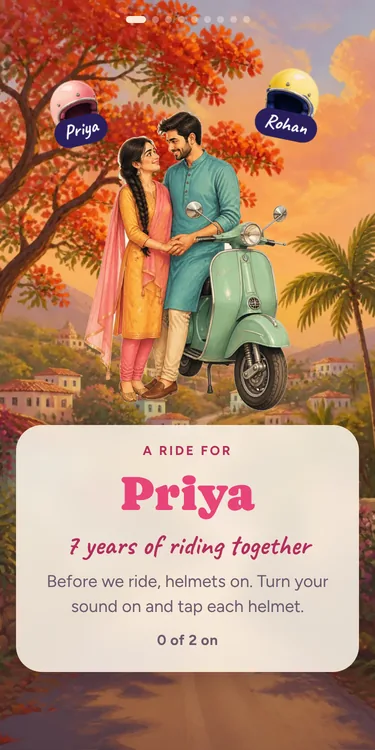
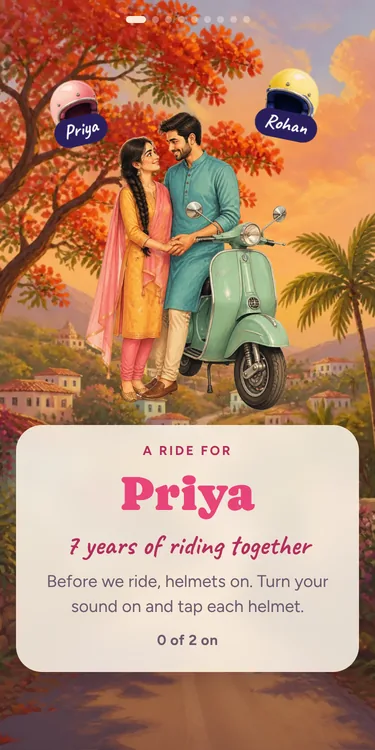
Memory Lane is live: homepage card, About page, Pinterest pin, structured data
Claude-Session: https://claude.ai/code/session_01421VuoqhFcSd1MVsboy9pA

diff --git a/index.html b/index.html
@@ -4,7 +4,7 @@
 <meta charset="utf-8">
 <meta name="viewport" content="width=device-width, initial-scale=1">
 <title>Little Gasp – Interactive Surprise Websites for Birthdays, Love Letters & Festivals</title>
-<meta name="description" content="Little Gasp (littlegasp.com) makes interactive surprise websites for birthdays, love letters, apologies, Karwa Chauth, Diwali and Navratri. Add your photos and words, watch the full preview free, then send one private link.">
+<meta name="description" content="Little Gasp (littlegasp.com) makes interactive surprise websites for birthdays, anniversaries, love letters, apologies, Karwa Chauth, Diwali and Navratri. Add your photos and words, watch the full preview free, then send one private link.">
 <link rel="canonical" href="https://littlegasp.com/">
 <meta name="p:domain_verify" content="62123977d9f37c57539cebff4570201b"/>
 <link rel="icon" href="/favicon.ico" sizes="48x48">
@@ -34,7 +34,7 @@
   "url":"https://littlegasp.com/",
   "logo":{"@type":"ImageObject","url":"https://littlegasp.com/icon-512.png","width":512,"height":512},
   "image":"https://littlegasp.com/og-image.png",
-  "description":"Little Gasp (littlegasp.com) is an online gift studio from Mumbai that makes personalised, interactive surprise websites for birthdays, love letters, apologies, Karwa Chauth, Diwali and Navratri. Buyers add their own photos, notes and a letter, see a live preview, then get a private link to share. Online only, sold through Instagram @littlegasp.co. Founded in Mumbai in 2026.",
+  "description":"Little Gasp (littlegasp.com) is an online gift studio from Mumbai that makes personalised, interactive surprise websites for birthdays, anniversaries, love letters, apologies, Karwa Chauth, Diwali and Navratri. Buyers add their own photos, notes and a letter, see a live preview, then get a private link to share. Online only, sold through Instagram @littlegasp.co. Founded in Mumbai in 2026.",
   "foundingDate":"2026","foundingLocation":{"@type":"Place","name":"Mumbai, India"},"areaServed":"IN",
   "email":"littlegasp.orders@gmail.com",
   "sameAs":["https://instagram.com/littlegasp.co/","https://www.instagram.com/littlegasp.co/","https://www.pinterest.com/littlegasp_co/"],
@@ -43,7 +43,7 @@
  {"@type":"Product","name":"Personalised surprise website","brand":{"@type":"Brand","name":"Little Gasp"},
   "description":"An interactive website with your photos, notes and letter, made for one person. Live preview before you pay.",
   "image":"https://littlegasp.com/og-image.png",
-  "offers":{"@type":"AggregateOffer","lowPrice":"99","highPrice":"149","offerCount":"7","priceCurrency":"INR","availability":"https://schema.org/InStock","url":"https://littlegasp.com/#designs",
+  "offers":{"@type":"AggregateOffer","lowPrice":"99","highPrice":"149","offerCount":"8","priceCurrency":"INR","availability":"https://schema.org/InStock","url":"https://littlegasp.com/#designs",
    "shippingDetails":{"@type":"OfferShippingDetails",
      "shippingRate":{"@type":"MonetaryAmount","value":"0","currency":"INR"},
      "shippingDestination":{"@type":"DefinedRegion","addressCountry":"IN"},
@@ -292,7 +292,10 @@ const DESIGNS = [
     demo: "/apology/", art: "heart", image: "/img/cards/apology.webp", screen: "/img/cards/apology-screen.webp" },
   { key: "love-letter", name: "Sealed with Love", status: "live", price: 149, regularPrice: 0,
     text: "A love letter they open: a dove delivers it, they crack the wax seal, unfold your notes and watch a quill write every word. Pressed flowers become your photos, stars spell your initials, and they can write back with a thumbprint seal.",
-    demo: "/love-letter/", art: "heart", image: "/img/cards/love-letter.webp", screen: "/img/cards/love-letter-screen.webp" }
+    demo: "/love-letter/", art: "heart", image: "/img/cards/love-letter.webp", screen: "/img/cards/love-letter-screen.webp" },
+  { key: "anniversary", name: "Memory Lane", status: "live", price: 149, regularPrice: 0,
+    text: "An anniversary ride for two: helmets on, kick-start the scooter, fill the tank with reasons, then drive up a winding road where every milestone is one of your photos. Promises at the toll, your letter at a chai stop, and a love lock on the bridge.",
+    demo: "/anniversary/", art: "heart", image: "/img/cards/anniversary.webp", screen: "/img/cards/anniversary-screen.webp" }
 ];
 /* ============================================= */
 

diff --git a/about.html b/about.html
@@ -4,7 +4,7 @@
 <meta charset="utf-8">
 <meta name="viewport" content="width=device-width, initial-scale=1">
 <title>About Little Gasp – Interactive Surprise Websites, Made in Mumbai</title>
-<meta name="description" content="Little Gasp (littlegasp.com) is an online gift studio from Mumbai that makes personalised, interactive surprise websites for birthdays, love letters, apologies, Karwa Chauth, Diwali and Navratri.">
+<meta name="description" content="Little Gasp (littlegasp.com) is an online gift studio from Mumbai that makes personalised, interactive surprise websites for birthdays, anniversaries, love letters, apologies, Karwa Chauth, Diwali and Navratri.">
 <link rel="canonical" href="https://littlegasp.com/about.html">
 <meta property="og:type" content="website">
 <meta property="og:site_name" content="Little Gasp">
@@ -27,7 +27,7 @@
   "founder":{"@type":"Person","name":"Aniket Nandkumar Gurav"},"foundingDate":"2026","foundingLocation":{"@type":"Place","name":"Mumbai, India"}},
  {"@type":"FAQPage","mainEntity":[
   {"@type":"Question","name":"What is Little Gasp?","acceptedAnswer":{"@type":"Answer","text":"Little Gasp (littlegasp.com) is an online gift studio from Mumbai, India. It makes personalised, interactive surprise websites: you add your photos, little notes and a letter, preview the whole thing free, then send one private link that the other person taps and plays through on their phone."}},
-  {"@type":"Question","name":"What occasions does Little Gasp make surprises for?","acceptedAnswer":{"@type":"Answer","text":"Birthdays, love letters, apologies, Karwa Chauth, Diwali and Bhai Dooj, and Navratri, with new designs added for each festival."}},
+  {"@type":"Question","name":"What occasions does Little Gasp make surprises for?","acceptedAnswer":{"@type":"Answer","text":"Birthdays, anniversaries, love letters, apologies, Karwa Chauth, Diwali and Bhai Dooj, and Navratri, with new designs added for each festival."}},
   {"@type":"Question","name":"How much does a Little Gasp surprise cost?","acceptedAnswer":{"@type":"Answer","text":"Birthday Cake is ₹99 and the other designs are ₹149. You can watch the full preview with your own photos before paying, and pay by UPI or card through Razorpay."}},
   {"@type":"Question","name":"Does the person need an app?","acceptedAnswer":{"@type":"Answer","text":"No. A Little Gasp surprise is a private web link that opens in any browser on a phone or laptop, and stays live for at least 12 months."}}
  ]}
@@ -48,6 +48,7 @@
 <h2>What we make</h2>
 <ul>
   <li><a href="/love-letter/">Sealed with Love</a> – a love letter they open: a dove delivers it, they crack the wax seal, unfold your notes and watch a quill write every word.</li>
+  <li><a href="/anniversary/">Memory Lane</a> – an anniversary ride: helmets on, kick-start the scooter and drive up a road where every milestone is one of your photos, ending with a love lock on a bridge.</li>
   <li><a href="/birthday-cake/">Birthday Cake</a> – candles, a wish and confetti, then your photos and notes, ending with a birthday selfie with a crown.</li>
   <li><a href="/birthday-wish/">Make a Wish</a> – a teddy bear's birthday party: light the candles, pop balloons, unwrap gifts and cut the cake.</li>
   <li><a href="/apology/">Mend the Heart</a> – a proper sorry: they mend a broken heart with gold and tell you honestly how mad they still are.</li>

diff --git a/CLAUDE.md b/CLAUDE.md
@@ -13,14 +13,14 @@ Brand Instagram: @littlegasp.co. Owner: Aniket Nandkumar Gurav, Mumbai.
 - `diwali/index.html` – "Diwali Night" (₹149; art from Canva asset kit DAHXZ0ow0uw, pages 5–8; add-on art `img/mithai.webp` from asset kit 2, Canva DAHXcxMn5_E): open (diya) → rangoli (trace the dotted circle; the colour copy is revealed by a conic mask following the finger; "Draw it for me" fallback) → sky (tap to launch fireworks; each burst writes one reason in light; 3 generic bursts if no reasons) → lanterns (up to 5, tap to release, each leaves a photo polaroid) → sparkle (draw with a sparkler; "Save" shares/downloads a 1080×1350 PNG) → letter → ask → gift (only if `extra.gift`: scratch the gold foil on a mithai box to read the real gift) → end (continuous fireworks + "send a wish back": a lantern carries their text to the buyer's email via `action:"reply"`, kind `wish`). `extra.relation` partner | family | sibling (Bhai Dooj) changes all wording (`WORDS`); demo `?rel=family|sibling`. Music is our own synthesised santoor/tabla/drone tune (`SONG.src` empty); a buyer's song replaces it.
 - `apology/index.html` – "Mend the Heart" apology (₹149; art from the same kit, pages 1–4; add-on art `img/jar.webp`, `puppy-choc/bouquet/roll.webp` from asset kit 2, Canva DAHXcxMn5_E): open (sorry puppy) → heart (one painted heart cut by code into 4–6 clip-path shards along jagged rays; drag or tap each home, each shows a sorry from `reasons`; gold kintsugi seams then draw along the same rays) → window (wipe the fog canvas off each photo) → jar (only if `extra.promises`: tap the jar or shake the phone (DeviceMotion, iOS permission asked on the tap that opens the scene); each paper star unfolds into a promise) → letter → meter (forgive-o-meter dial "Still furious 🔥" → "All good 💗"; rain, gloom and puppy follow it live; answer sent as reply kind `meter`, only if they moved it) → ask ("Still mad 😤" makes the puppy try chocolate → flowers → belly rubs, then it stops and waits; "I need a minute" stays, never pressure) → menu (make-up menu from `extra.menu` or our `MENU`; tick treats + "Anything else?"; "Place my order" sends reply kind `order`, stamps the menu) → end (rain stops, happy puppy, their order listed). Song: `audio/thoda-muskura-do.mp3` ("Thoda Muskura Do" by RahulSapkal, Pixabay, owner's pick 10 Oct 2026; starts on the heart scene); our synthesised music-box tune only if it won't load. Diwali stays on its synthesised tune (owner's choice). Editor uses `reasonsTitle`/`reasonsExamples`/`letterHint` for apology wording.
 - `love-letter/index.html` – "Sealed with Love" love letter (₹149; Canva mockup + kit DAHXpI9uS9s in the Tiny Surprises Canva account, pages 8–11 = cut-outs, phone bg, couple, wide laptop bg): open (dove postman flies in; tap it) → seal (press & hold the wax heart ~1.5 s till it glows and cracks; music starts here; then the envelope really opens: `.eflap` (envelope image clipped to the top V) swings up, `.ecard` slides out of `.epocket` and lifts free; the painted wax stays split on flap and pocket; `.seal`/`.ring` sit at z-index 6 above the flap) → unfold (drag the folded letter down, each crease opens one reason) → letter (a drawn SVG quill writes the letter live; tap to finish) → flowers (pressed flowers `flower-N.webp`; tap one, it flies into a polaroid that develops into a photo) → box (only if `extra.memories`, "date: text": dated tabs in the keepsake box, pull one up to read it) → sky (join 12 stars into a heart in the arched window; initials of to/from appear; "Draw it for me" after 9 s) → ps (only if `extra.ps`: drag the candle near the card; invisible ink shows where the paper is warm) → ask (pull the ribbon end to untie the bundle; the last letter shows the question, the dove perched on it, a rose and a wax seal; "Convince me" brings 3 dove notes then becomes "Okay, yes!") → reply (write back, hold thumb on the wax for a fingerprint heart seal, tap lipstick for kisses; sent as reply kind `letter`; laptops get "click and hold" wording; after sending it moves to the finale by itself) → end (painted couple, falling petals). Song: `audio/love-story-piano.mp3` ("Romantic Background Music (Valentine's Day Love Story Piano)" by MaksymMalko, Pixabay, owner's pick 11 Oct 2026); our synthesised D-major waltz only if it won't load; buyer's song replaces it. Laptop bg `img/bg-wide.webp` (Canva page 11; window on the left half).
-- `anniversary/index.html` – "Memory Lane" anniversary (₹149; Canva storyboard DAHXtkkfL6s, asset kit DAHXtijKBLo (16 pages) + wide bg DAHXtvAjBVY, Tiny Surprises Canva account; built 11 Oct 2026, reworked on owner feedback the same evening; unlisted until the owner approves): open (helmets on: tap a helmet, it flies to the head and fades while `couple-helmets.webp` (Canva repaint of the same couple wearing helmets, media MAHXtz1xcy4, aligned to `couple.webp`) is revealed under a soft radial mask around that head only (`.hlp`/`.hly`); name tags follow `theme` her/him, set from the editor's Wife/Husband pick via `genderFromWho`) → kick (swipe the kick lever down twice; music starts here) → map (paper map unfolds, dotted route, years from `number`) → fuel (only if reasons: hold the nozzle; one gauge bar per reason) → lane (drag the scooter up `img/road.webp`, path = `ROAD` in 900×1600 image space; EVERY PHOTO IS A MILESTONE: caption "year: text", photo shows in the note as a polaroid; up to 20 photos (editor `maxPhotos:20`, `captionMax:80`); no photos → old `extra.milestones` or `DEFAULT_STOPS`; "Drive for me" after 8 s; the post-box scene was dropped) → toll (barrier is 3 layers `bar-post/bar-arm/bar-hub.webp`, only the arm rotates about the hub; one promise per lift from `extra.promises` or `DEFAULT_PROMISES`; after the last one `rideAway()` sends the riding couple up the painted road, shrinking toward the vanishing point, per-layout path in vw/vh) → chai (only if letter: couple sitting on the parked scooter at the tapri; "Cheers" → full-screen overlay, two `chai-glass.webp` (one glass, mirrored) swing in and clink with a splash; then the chalkboard card writes the letter; on phones the art hides once the board shows) → lock (only if question: Lock it / tap lock → lock drops onto the rail, key slides into the keyhole and turns (click), comes out; "Throw the key away" → key arcs into the river, splash + ripples; then "Ride into forever" button, never automatic) → end. Music: our synthesised ukulele-style tune (`SONG.src` empty); buyer's song replaces it. Backend v10 (`/home/claude/out/Code-v10.gs`): `anniversary` price + `PHOTO_LIMITS` (20 photos, 80-char captions).
+- `anniversary/index.html` – "Memory Lane" anniversary (₹149; Canva storyboard DAHXtkkfL6s, asset kit DAHXtijKBLo (16 pages) + wide bg DAHXtvAjBVY, Tiny Surprises Canva account; built 11 Oct 2026, reworked on owner feedback, art is the owner's transparent Canva export; LIVE on homepage/about/pins 11 Oct 2026 night): open (helmets on: tap a helmet, it flies to the head and fades while `couple-helmets.webp` (Canva repaint of the same couple wearing helmets, media MAHXtz1xcy4, aligned to `couple.webp`) is revealed under a soft radial mask around that head only (`.hlp`/`.hly`); name tags follow `theme` her/him, set from the editor's Wife/Husband pick via `genderFromWho`) → kick (swipe the kick lever down twice; music starts here) → map (paper map unfolds, dotted route, years from `number`) → fuel (only if reasons: hold the nozzle; one gauge bar per reason) → lane (drag the scooter up `img/road.webp`, path = `ROAD` in 900×1600 image space; EVERY PHOTO IS A MILESTONE: caption "year: text", photo shows in the note as a polaroid; up to 20 photos (editor `maxPhotos:20`, `captionMax:80`); no photos → old `extra.milestones` or `DEFAULT_STOPS`; "Drive for me" after 8 s; the post-box scene was dropped) → toll (barrier is 3 layers `bar-post/bar-arm/bar-hub.webp`, only the arm rotates about the hub; one promise per lift from `extra.promises` or `DEFAULT_PROMISES`; after the last one `rideAway()` sends the riding couple up the painted road, shrinking toward the vanishing point, per-layout path in vw/vh) → chai (only if letter: couple sitting on the parked scooter at the tapri; "Cheers" → full-screen overlay, two `chai-glass.webp` (one glass, mirrored) swing in and clink with a splash; then the chalkboard card writes the letter; on phones the art hides once the board shows) → lock (only if question: Lock it / tap lock → lock drops onto the rail, key slides into the keyhole and turns (click), comes out; "Throw the key away" → key arcs into the river, splash + ripples; then "Ride into forever" button, never automatic) → end. Music: our synthesised ukulele-style tune (`SONG.src` empty); buyer's song replaces it. Backend v10 (`/home/claude/out/Code-v10.gs`): `anniversary` price + `PHOTO_LIMITS` (20 photos, 80-char captions).
 - `style.css` – shared glass theme. `site.js` – shared header, phone menu, footer (edit nav/footer links only here).
 - `terms.html`, `refund.html`, `privacy.html`, `contact.html` – policies.
 - `about.html` – indexable About page (11 Oct 2026, for Google/AI answers about the brand): clear "Little Gasp (littlegasp.com) is…" opening line, every design listed, AboutPage + Organization + FAQPage JSON-LD. Homepage also carries Organization/WebSite/Product + FAQPage JSON-LD and the Pinterest `p:domain_verify` meta tag (website claim, 11 Oct 2026; never remove it); keep design names, prices and `offerCount` there in step with `DESIGNS`.
 - `pins.xml` – RSS feed Pinterest reads to auto-create one Pin per design (connected in Pinterest Bulk create Pins → Auto-publish, board "Surprise Gift Ideas", account littlegasp_co, 11 Oct 2026). Each item: SEO title, design page link, `img/pins/<key>.jpg` (1000×1500, made by /tmp mk-style render: blurred card bg, cream title panel, phone with `<key>-screen.webp`, "Try it free · littlegasp.com" bar; no prices). Every new live design gets a new item + image; never change an existing `guid`.
 - `robots.txt`, `sitemap.xml`, `og-image.png`, icons.
 
-Backend (NOT in this repo): Google Apps Script web app in littlegasp.orders@gmail.com, bound to its order sheet (v8 code: `Extra` column for design add-ons (v8 adds Karwa Chauth `vows`), `Replies` sheet + `action:"reply"` (kinds wish/order/meter, paid ids only, max 20 per link, emailed to the buyer), diwali + apology prices; v9 adds `love-letter` price, extras `memories`/`ps` (`scent` too, unused since the perfume scene was dropped 11 Oct 2026, owner's call) and reply kind `letter` — deployed by the owner 11 Oct 2026) — same `API_URL` in all 8 pages (7 templates + editor) (`API_URL`, ends in `/exec`) with a `PRICES` map in paise; Razorpay keys live in Apps Script Script Properties. Never put API keys or secrets in this repo – it is public.
+Backend (NOT in this repo): Google Apps Script web app in littlegasp.orders@gmail.com, bound to its order sheet (v8 code: `Extra` column for design add-ons (v8 adds Karwa Chauth `vows`), `Replies` sheet + `action:"reply"` (kinds wish/order/meter, paid ids only, max 20 per link, emailed to the buyer), diwali + apology prices; v9 adds `love-letter` price, extras `memories`/`ps` (`scent` too, unused since the perfume scene was dropped 11 Oct 2026, owner's call) and reply kind `letter` — deployed by the owner 11 Oct 2026; v10 adds `anniversary` price + `PHOTO_LIMITS` (20 photos), deployed by the owner 11 Oct 2026) — same `API_URL` in all 9 pages (8 templates + editor) (`API_URL`, ends in `/exec`) with a `PRICES` map in paise; Razorpay keys live in Apps Script Script Properties. Never put API keys or secrets in this repo – it is public.
 
 ## Rules
 1. **Every design shares one content model:** to, from, number, photos [{src, caption}] (max 5), reasons (max 6), letter (lines), question, yesReply (+ optional `theme` "her"/"him", backend v5 `Theme` column, used by designs with `themes:true`; + optional `extra` object for a design's own add-ons, declared as `extras` fields in the editor `DESIGNS` (choice/text/list), whitelisted in Apps Script `cleanExtra_`, backend v7 `Extra` column — new keys need adding there too). New templates must read exactly these fields and support `?id=`, `?preview=1` (+ watermark), `?autoplay=1` (silent, no focus stealing) and demo mode.
